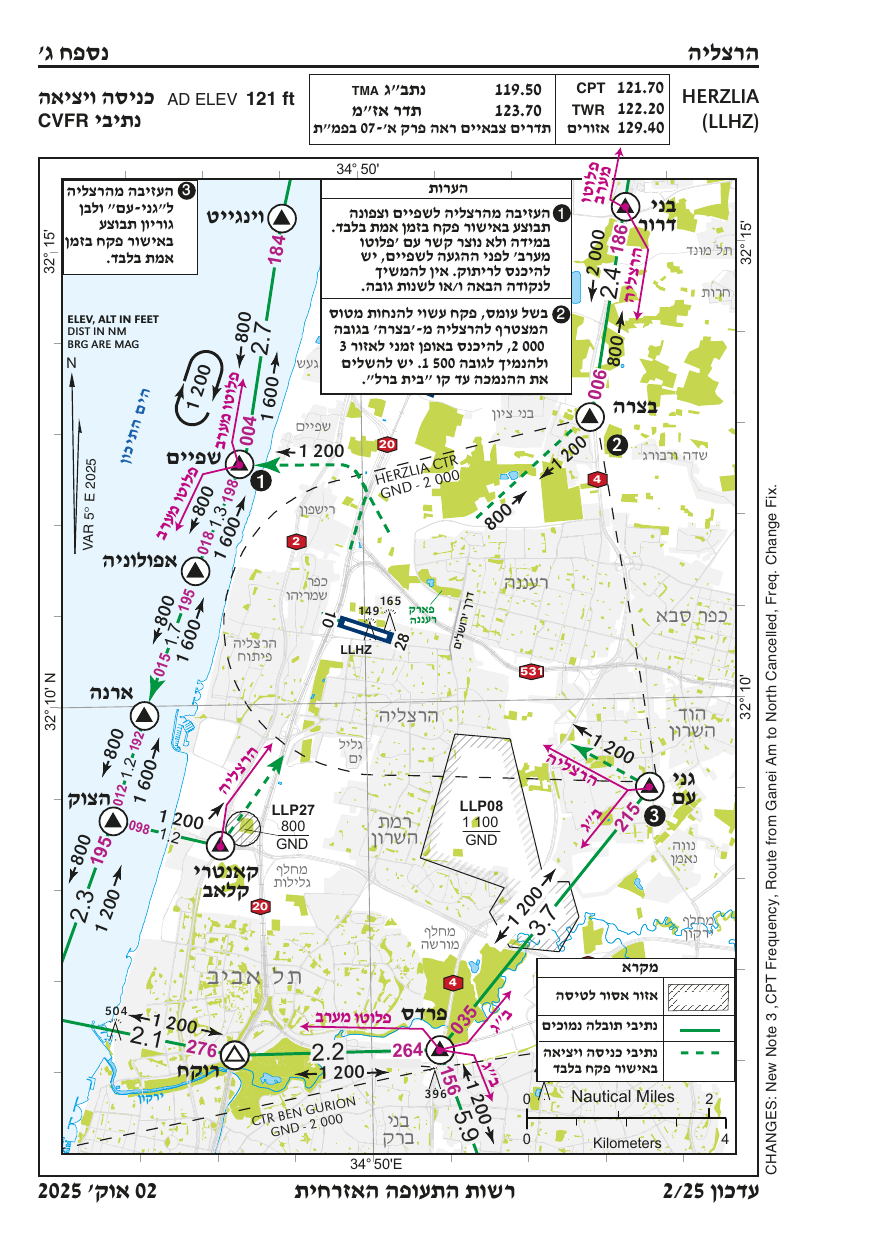
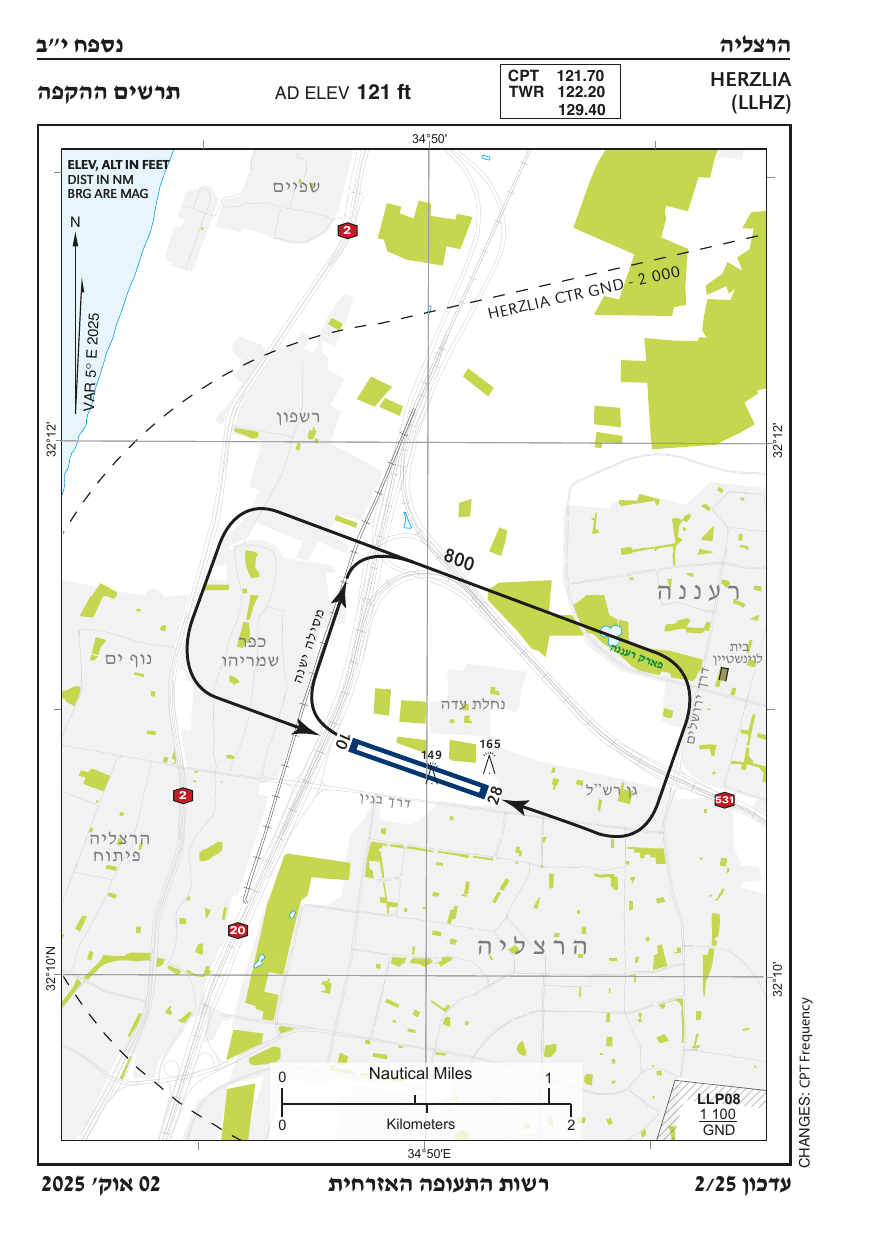
fix: use Annex Yud Bet (הקפה circuit chart) for LLHZ, not Annex Gimel
Annex Gimel for LLHZ is the CVFR entry/exit route network, not the
traffic circuit. Yud Bet (תרשים ההקפה) is the actual circuit plate.
Rebounded to the tighter circuit chart graticule.

Changed region(s): [[0.0309, 0.0306, 0.9257, 0.9799]]

diff --git a/tests/airfields-dataset.spec.js b/tests/airfields-dataset.spec.js
@@ -322,7 +322,7 @@ test.describe('circuit_overlay field', () => {
     LLBS: { png: 'LLBS_circuit.png', sw: [31.12,  34.65],  ne: [31.43,  34.87]  },
     LLER: { png: 'LLER_circuit.png', sw: [29.50,  34.75],  ne: [29.917, 35.083] },
     LLHA: { png: 'LLHA_circuit.png', sw: [32.667, 35.0],   ne: [32.917, 35.167] },
-    LLHZ: { png: 'LLHZ_circuit.png', sw: [32.00,  34.83],  ne: [32.25,  35.08]  },
+    LLHZ: { png: 'LLHZ_circuit.png', sw: [32.155, 34.806], ne: [32.220, 34.860] },
     LLIB: { png: 'LLIB_circuit.png', sw: [32.833, 35.417], ne: [33.167, 35.667] },
     LLKS: { png: 'LLKS_circuit.png', sw: [33.18,  35.55],  ne: [33.37,  35.70]  },
     LLMG: { png: 'LLMG_circuit.png', sw: [32.567, 35.20],  ne: [32.633, 35.267] },
